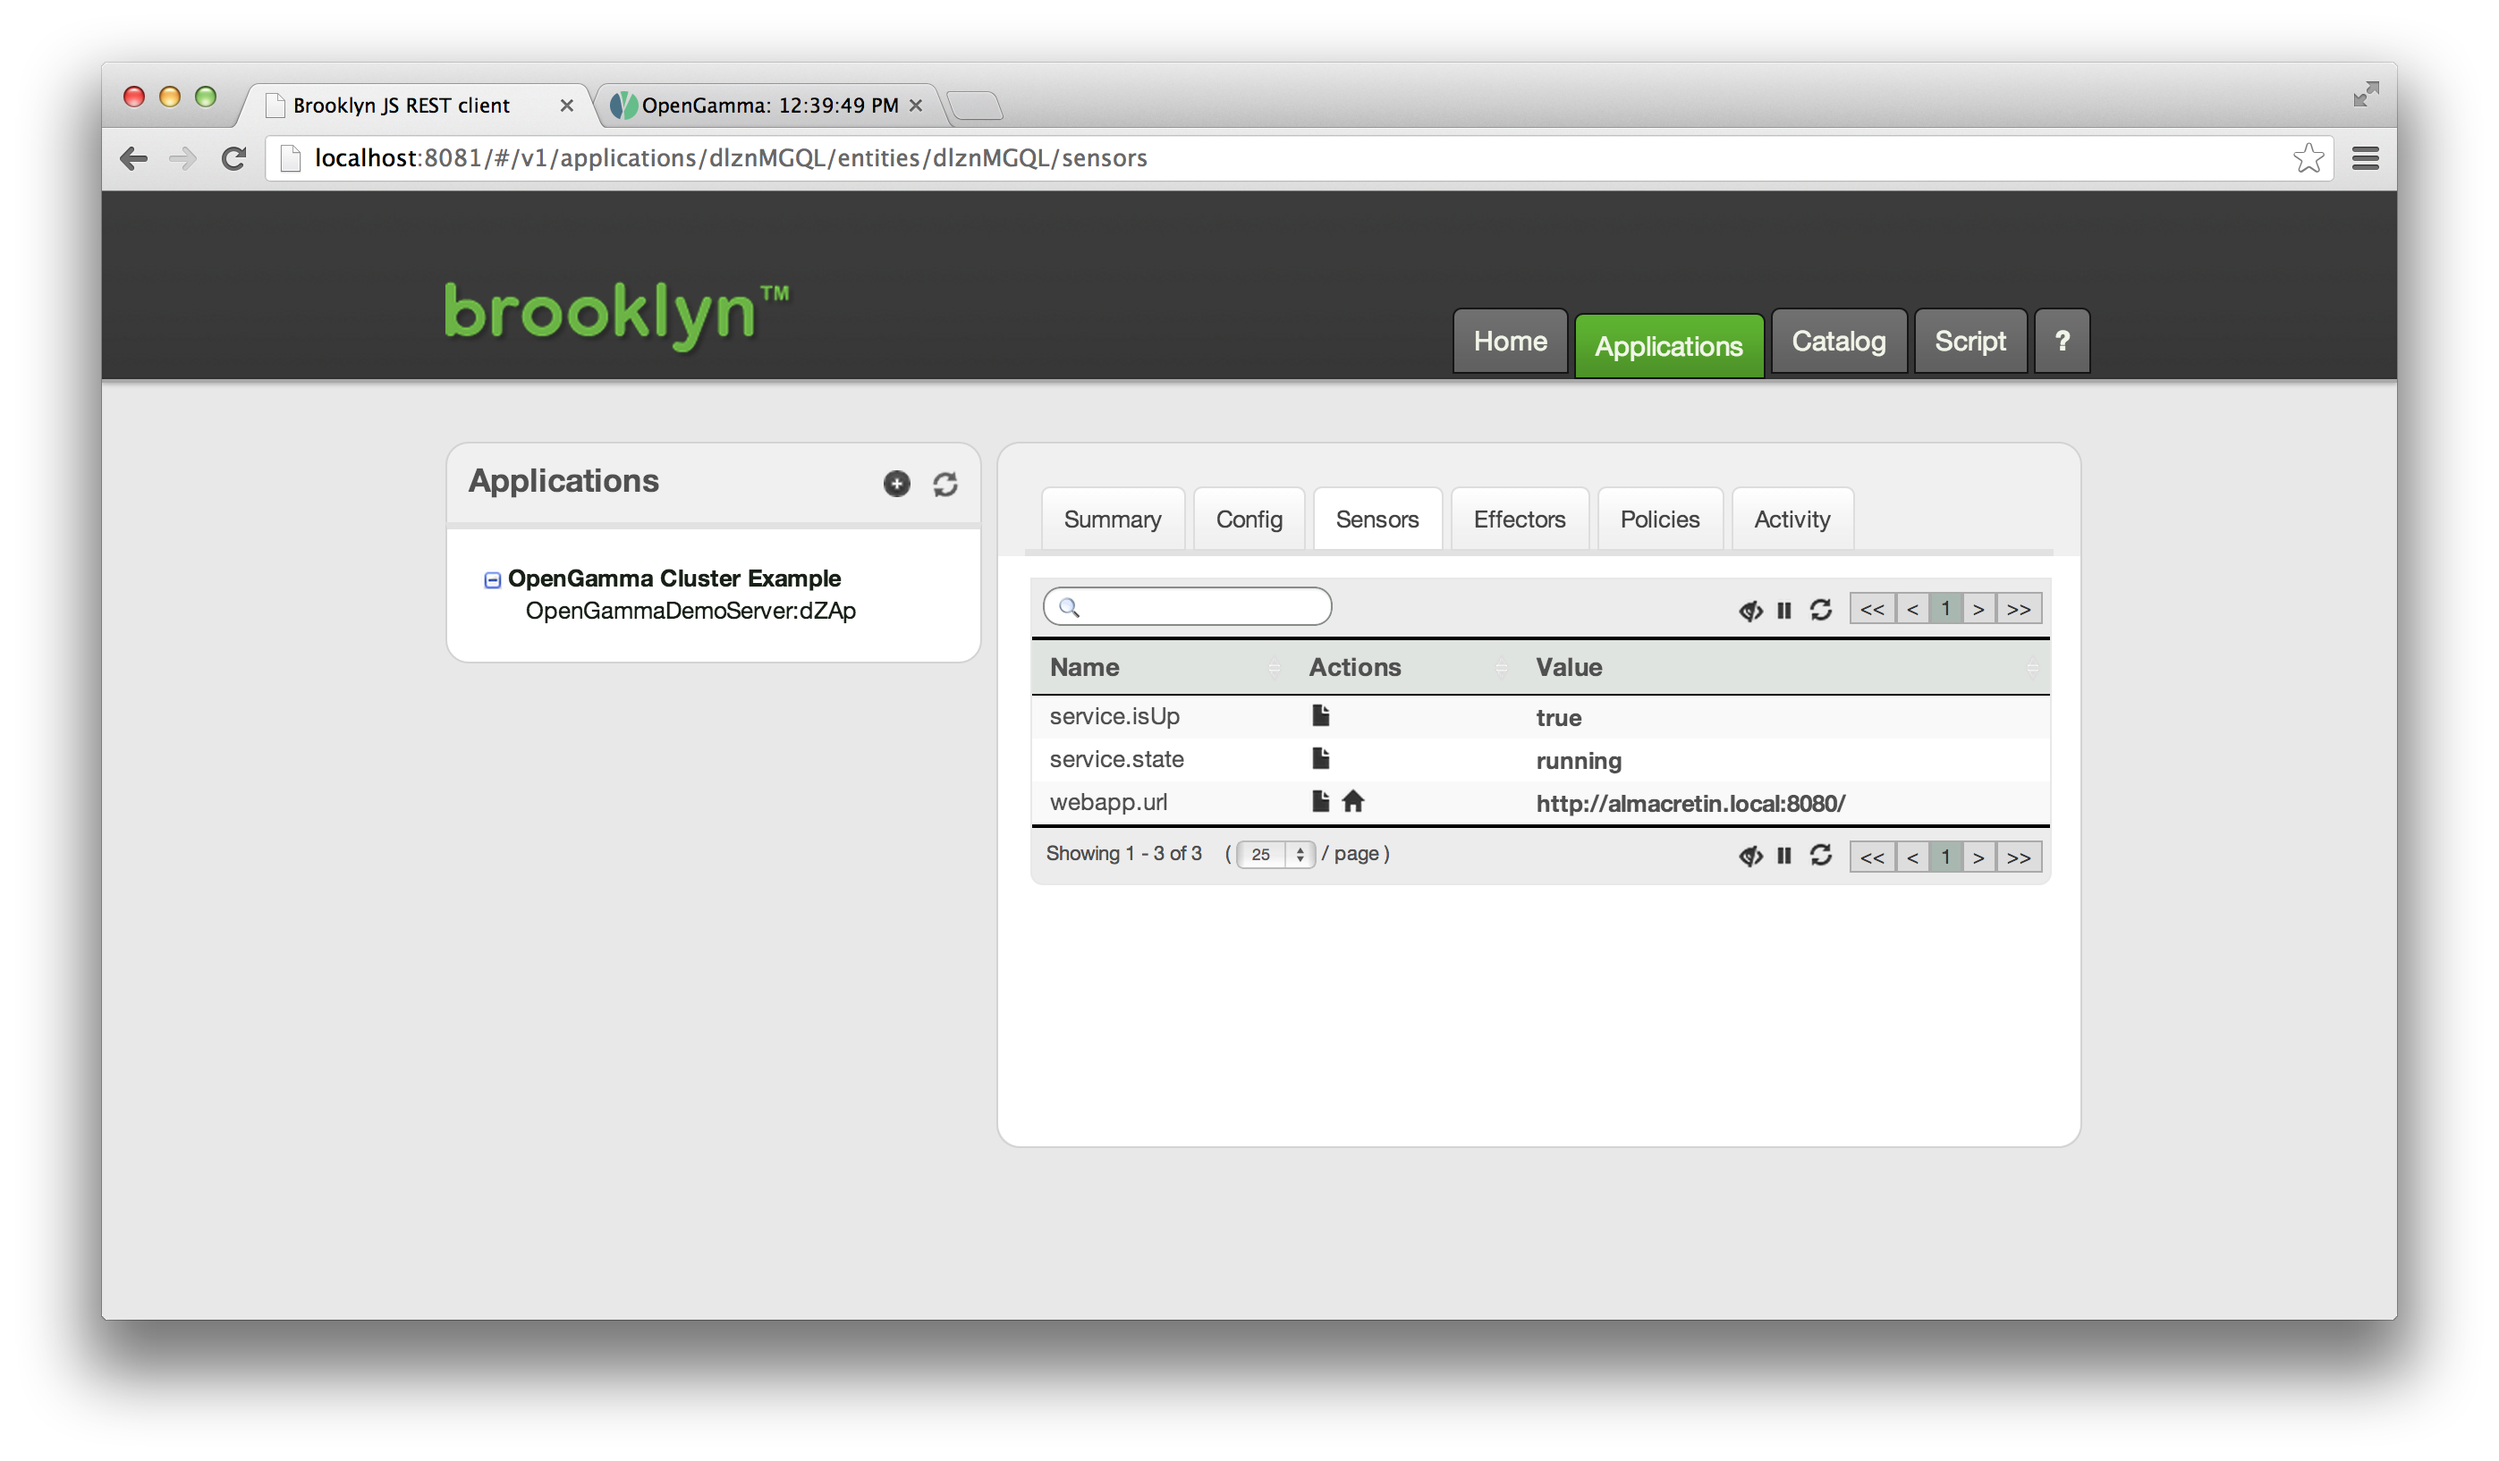
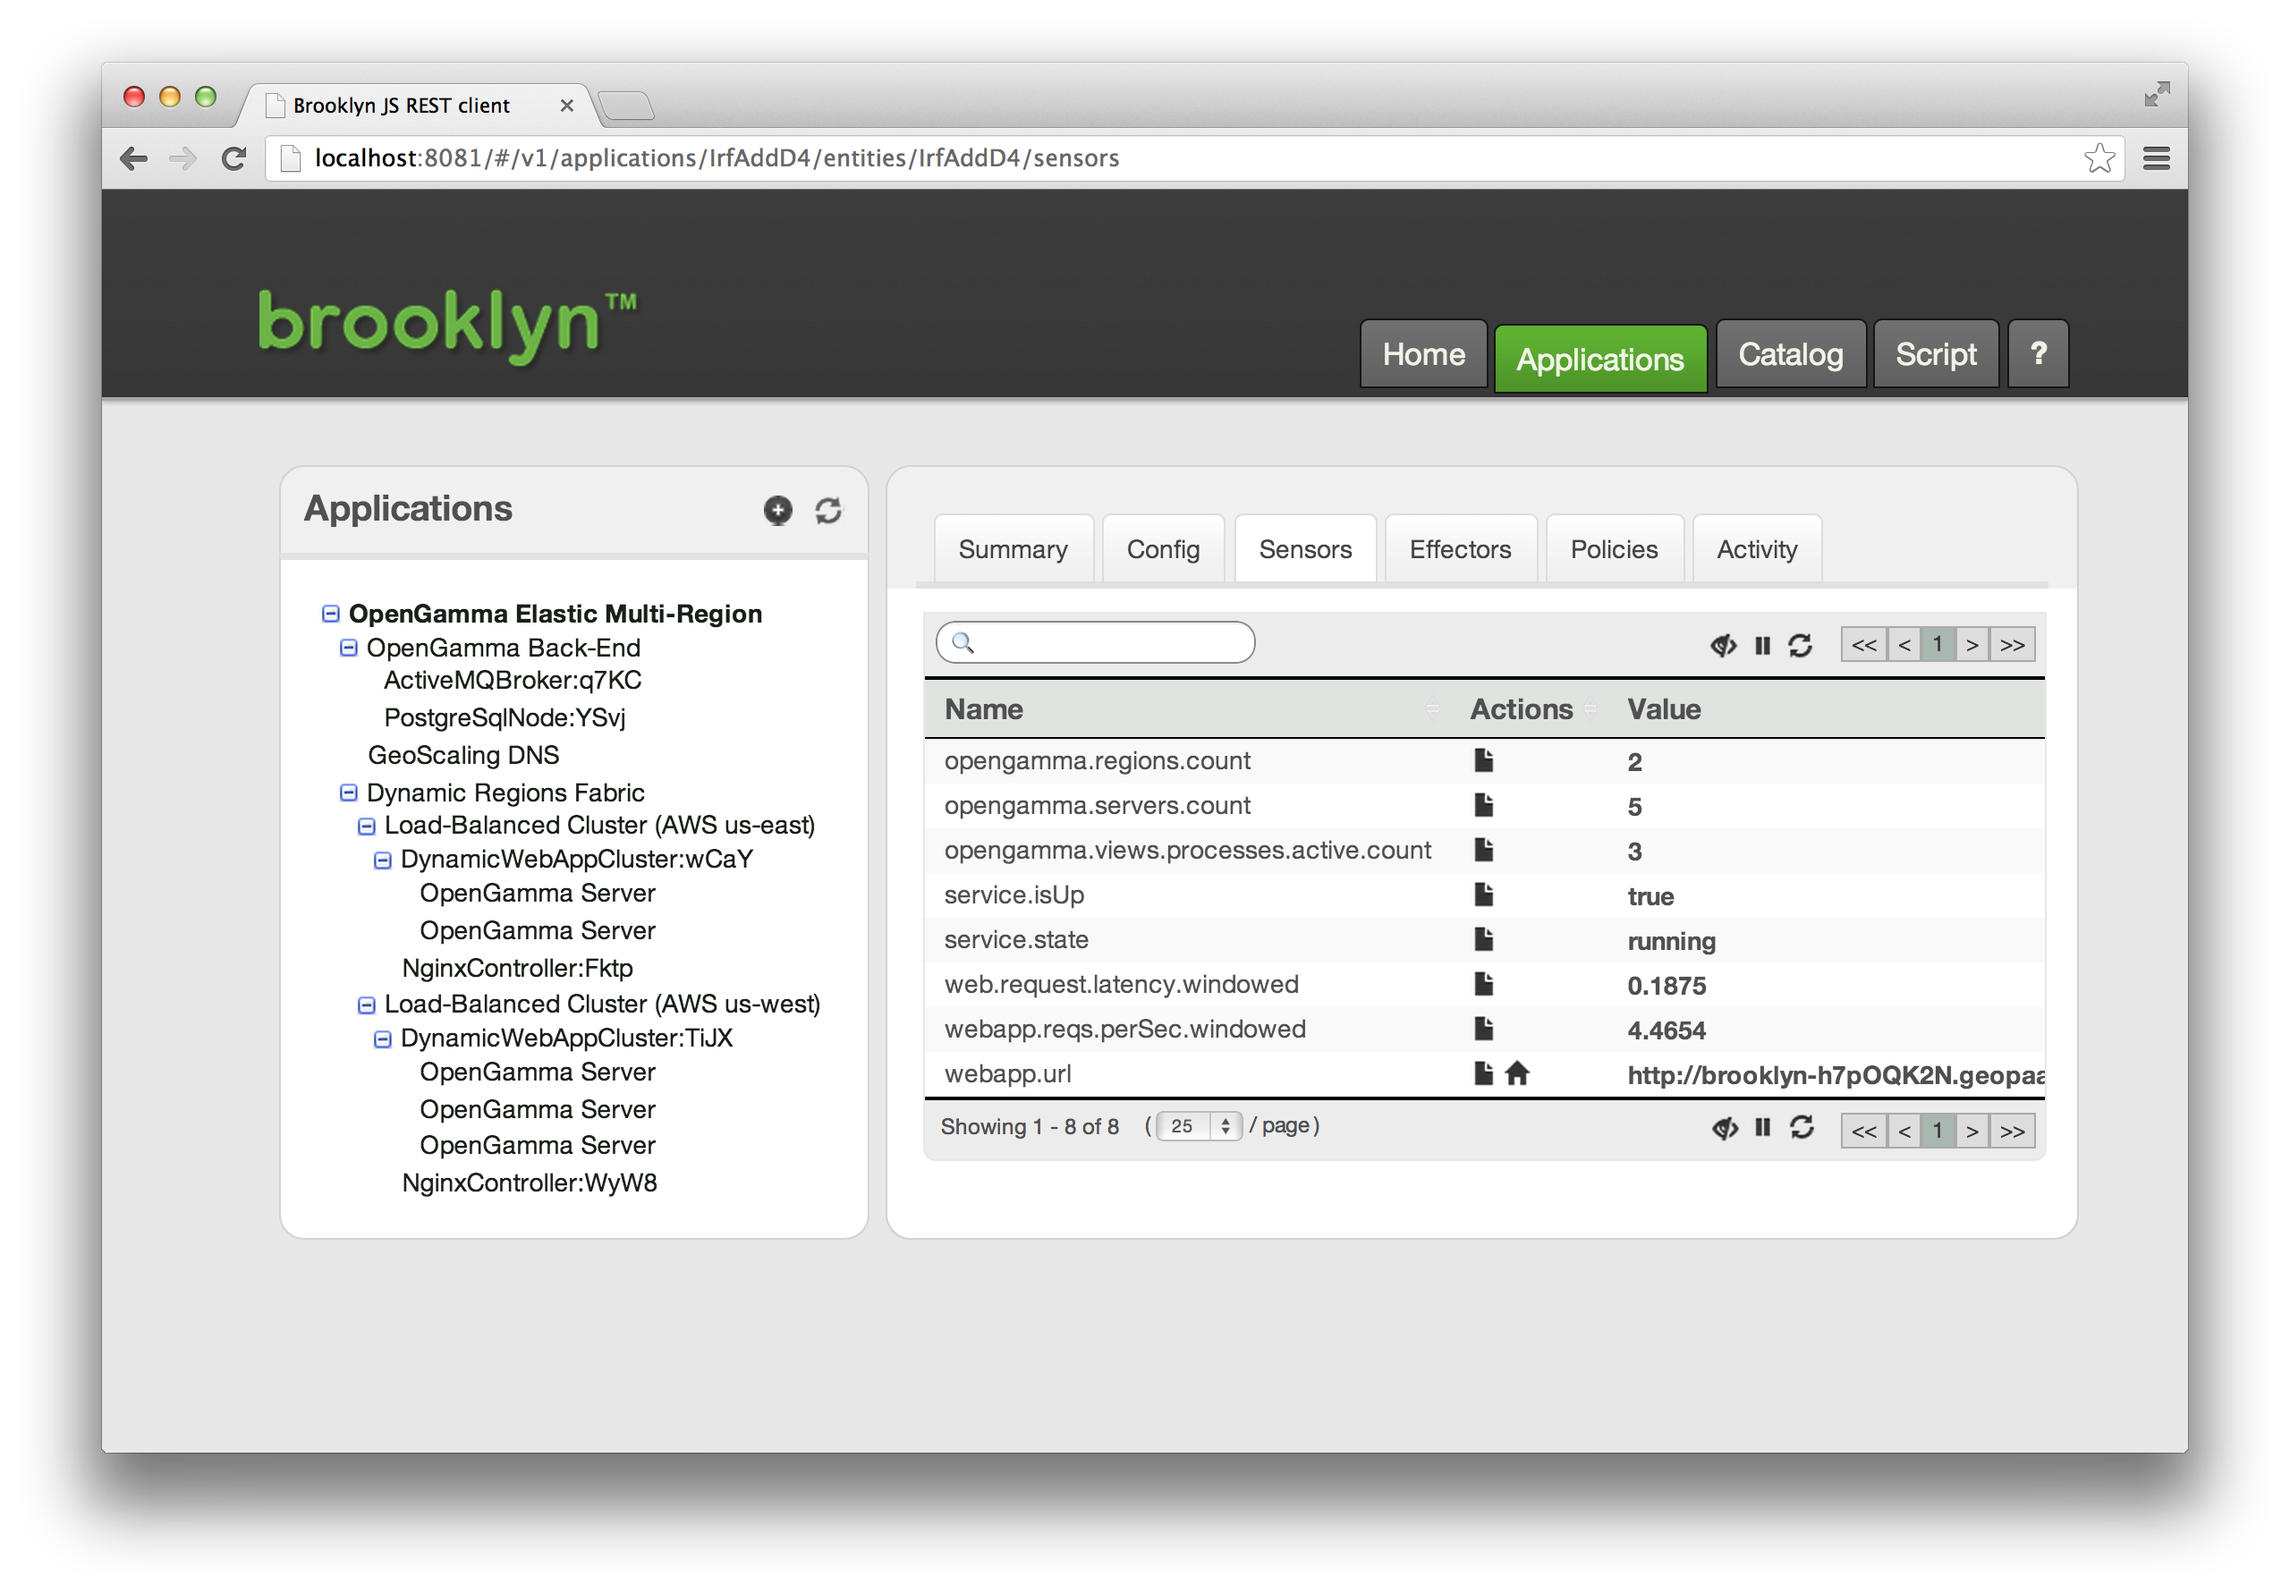
tidy class names and use more recent screenshot image

Changed region(s): [[0.0312, 0.0312, 0.9688, 0.9364], [0.375, 0.3433, 0.9062, 0.7491], [0.125, 0.3121, 0.4062, 0.7491]]

diff --git a/src/main/java/io/cloudsoft/opengamma/OpenGammaCluster.java b/src/main/java/io/cloudsoft/opengamma/OpenGammaCluster.java
@@ -1,78 +1,152 @@
 package io.cloudsoft.opengamma;
 
+import static com.google.common.base.Preconditions.checkNotNull;
 import io.cloudsoft.amp.entities.BasicStartable;
+import io.cloudsoft.amp.entities.BasicStartable.LocationsFilter;
+import io.cloudsoft.amp.entities.DynamicRegionsFabric;
 import io.cloudsoft.amp.policies.ServiceFailureDetector;
 import io.cloudsoft.amp.policies.ServiceReplacer;
 import io.cloudsoft.amp.policies.ServiceRestarter;
-import io.cloudsoft.opengamma.server.OpenGammaServer;
 import io.cloudsoft.opengamma.server.OpenGammaMonitoringAggregation;
+import io.cloudsoft.opengamma.server.OpenGammaServer;
 
+import java.util.ArrayList;
 import java.util.List;
+import java.util.Map;
 import java.util.concurrent.TimeUnit;
 
 import org.slf4j.Logger;
 import org.slf4j.LoggerFactory;
 
-import brooklyn.catalog.Catalog;
 import brooklyn.catalog.CatalogConfig;
 import brooklyn.config.ConfigKey;
+import brooklyn.config.StringConfigMap;
 import brooklyn.enricher.HttpLatencyDetector;
 import brooklyn.enricher.basic.SensorPropagatingEnricher;
+import brooklyn.enricher.basic.SensorTransformingEnricher;
 import brooklyn.entity.Entity;
 import brooklyn.entity.basic.AbstractApplication;
+import brooklyn.entity.basic.Attributes;
 import brooklyn.entity.basic.Entities;
+import brooklyn.entity.basic.EntityFactory;
+import brooklyn.entity.basic.EntityLocal;
 import brooklyn.entity.basic.SoftwareProcess;
 import brooklyn.entity.basic.StartableApplication;
 import brooklyn.entity.database.postgresql.PostgreSqlNode;
+import brooklyn.entity.dns.geoscaling.GeoscalingDnsService;
 import brooklyn.entity.group.DynamicCluster;
+import brooklyn.entity.group.DynamicFabric;
 import brooklyn.entity.messaging.activemq.ActiveMQBroker;
+import brooklyn.entity.proxy.AbstractController;
 import brooklyn.entity.proxying.EntitySpecs;
+import brooklyn.entity.trait.Changeable;
 import brooklyn.entity.webapp.ControlledDynamicWebAppCluster;
-import brooklyn.entity.webapp.DynamicWebAppCluster;
 import brooklyn.entity.webapp.WebAppService;
 import brooklyn.entity.webapp.WebAppServiceConstants;
 import brooklyn.event.SensorEvent;
 import brooklyn.event.SensorEventListener;
+import brooklyn.event.basic.BasicConfigKey;
 import brooklyn.launcher.BrooklynLauncher;
+import brooklyn.location.basic.PortRanges;
 import brooklyn.policy.autoscaling.AutoScalerPolicy;
 import brooklyn.util.CommandLineUtil;
+import brooklyn.util.MutableMap;
 
+import com.google.common.base.Functions;
+import com.google.common.collect.ImmutableList;
 import com.google.common.collect.Lists;
 
-@Catalog(name="OpenGamma Cluster", description="Open source risk management platform for capital markets - real-time market risk analytics and stress testing", iconUrl="classpath://opengamma-logo.png")
 public class OpenGammaCluster extends AbstractApplication implements StartableApplication {
-
+    
+    private static final long serialVersionUID = 997984655016594134L;
     public static final Logger LOG = LoggerFactory.getLogger(OpenGammaCluster.class);
-
+    
     public static final String DEFAULT_LOCATION = "localhost";
 
     @CatalogConfig(label="Debug Mode", priority=2)
     public static final ConfigKey<Boolean> DEBUG_MODE = OpenGammaServer.DEBUG_MODE;
 
+    @CatalogConfig(label="Multi-Region", priority=1)
+    public static final ConfigKey<Boolean> SUPPORT_MULTIREGION = new BasicConfigKey<Boolean>(Boolean.class,
+            "opengamma.multiregion", "Whether to run multi-region", true);
+
     /** build the application */
     @Override
     public void init() {
-        // Add external services (message bus broker and database server) for OG
-        BasicStartable backend = addChild(EntitySpecs.spec(BasicStartable.class).displayName("OpenGamma Back-End"));
-        ActiveMQBroker broker = backend.addChild(EntitySpecs.spec(ActiveMQBroker.class));
-        PostgreSqlNode database = backend.addChild(EntitySpecs.spec(PostgreSqlNode.class)
+        StringConfigMap config = getManagementContext().getConfig();
+        
+        // First define the stock service entities (message bus broker and database server) for OG
+        
+        BasicStartable backend = addChild(EntitySpecs.spec(BasicStartable.class)
+                .displayName("OpenGamma Back-End")
+                .configure(BasicStartable.LOCATIONS_FILTER, LocationsFilter.USE_FIRST_LOCATION));
+        final ActiveMQBroker broker = backend.addChild(EntitySpecs.spec(ActiveMQBroker.class));
+        final PostgreSqlNode database = backend.addChild(EntitySpecs.spec(PostgreSqlNode.class)
                 .configure(PostgreSqlNode.CREATION_SCRIPT_URL, "classpath:/io/cloudsoft/opengamma/config/create-brooklyn-db.sql"));
 
-        // Add the server tier
-        ControlledDynamicWebAppCluster web = addChild(
-                EntitySpecs.spec(ControlledDynamicWebAppCluster.class)
-                    .configure(ControlledDynamicWebAppCluster.INITIAL_SIZE, 2)
-                    .configure(ControlledDynamicWebAppCluster.MEMBER_SPEC, 
-                            EntitySpecs.spec(OpenGammaServer.class)
-                                    .displayName("OpenGamma Server")
-                                    .configure(OpenGammaServer.BROKER, broker)
-                                    .configure(OpenGammaServer.DATABASE, database))
-                    .displayName("OpenGamma Server Cluster (Web/View/Calc)")
-                );
+        // Now add the server tier, either multi-region (fabric) or fixed single-region (cluster)
 
-        initAggregatingMetrics(web);
-        initResilience(web);
-        initElasticity(web);
+        // factory for creating the OG server cluster, passed to fabric, or used directly here to make a cluster   
+        EntityFactory<Entity> ogWebClusterFactory = new EntityFactory<Entity>() {
+            @Override
+            public Entity newEntity(@SuppressWarnings("rawtypes") Map flags, Entity parent) {
+                ControlledDynamicWebAppCluster ogWebCluster = parent.addChild(EntitySpecs.spec(ControlledDynamicWebAppCluster.class)
+                        .displayName("Load-Balanced Cluster") 
+                        .configure(ControlledDynamicWebAppCluster.INITIAL_SIZE, 2)
+                        .configure(ControlledDynamicWebAppCluster.MEMBER_SPEC, 
+                            EntitySpecs.spec(OpenGammaServer.class).displayName("OpenGamma Server")
+                            .configure(OpenGammaServer.BROKER, broker)
+                            .configure(OpenGammaServer.DATABASE, database)) );
+                
+                initAggregatingMetrics(ogWebCluster);
+                initResilience(ogWebCluster);
+                initElasticity(ogWebCluster);
+                return ogWebCluster;
+            }
+        };
+
+        // use fabric by default, unless no password for geoscaling is set
+        String geoscalingPassword = config.getFirst("brooklyn.geoscaling.password");
+        
+        if (getConfig(SUPPORT_MULTIREGION) && geoscalingPassword!=null) {
+            log.info("GeoScaling support detected. Running in multi-cloud mode.");
+            
+            GeoscalingDnsService geoDns = addChild(EntitySpecs.spec(GeoscalingDnsService.class)
+                    .displayName("GeoScaling DNS")
+                    .configure("username", checkNotNull(config.getFirst("brooklyn.geoscaling.username"), "username"))
+                    .configure("password", geoscalingPassword)
+                    .configure("primaryDomainName", checkNotNull(config.getFirst("brooklyn.geoscaling.primaryDomain"), "primaryDomain")) 
+                    .configure("smartSubdomainName", "brooklyn"));
+
+            DynamicRegionsFabric webFabric = addChild(EntitySpecs.spec(DynamicRegionsFabric.class)
+                    .displayName("Dynamic Regions Fabric")
+                    .configure(DynamicFabric.FACTORY, ogWebClusterFactory)
+                    .configure(AbstractController.PROXY_HTTP_PORT, PortRanges.fromCollection(ImmutableList.of(80,"8000+"))) );
+
+            // tell GeoDNS what to monitor
+            geoDns.setTargetEntityProvider(webFabric);
+
+            // bubble up sensors (kpi's and access info), from WebFabric and GeoDNS
+            OpenGammaMonitoringAggregation.aggregateOpenGammaClusterSensors(webFabric);
+            OpenGammaMonitoringAggregation.promoteKpis(this, webFabric);
+            addEnricher(new SensorTransformingEnricher<Integer,Integer>(webFabric, Changeable.GROUP_SIZE, 
+                    OpenGammaMonitoringAggregation.REGIONS_COUNT, Functions.<Integer>identity()));
+            addEnricher(new SensorTransformingEnricher<String,String>(geoDns, Attributes.HOSTNAME, WebAppServiceConstants.ROOT_URL, 
+                    OpenGammaMonitoringAggregation.surround("http://","/")));
+        } else {
+            if (!getConfig(SUPPORT_MULTIREGION))
+                log.warn("No password set for GeoScaling. Creating "+this+" in single-cluster mode.");
+            else
+                log.info("Configured not to have multi-region support. Creating "+this+" in single-cluster mode.");
+            
+            Entity ogWebCluster = ogWebClusterFactory.newEntity(MutableMap.of(), this);
+            
+            // bubble up sensors (kpi's and access info) - in single-cluster mode it all comes from cluster (or is hard-coded)
+            OpenGammaMonitoringAggregation.promoteKpis(this, ogWebCluster);
+            setAttribute(OpenGammaMonitoringAggregation.REGIONS_COUNT, 1);
+            addEnricher(SensorPropagatingEnricher.newInstanceListeningTo(ogWebCluster,  
+                    WebAppServiceConstants.ROOT_URL));
+        }
     }
 
     /** aggregate metrics and selected KPI's */
@@ -82,19 +156,15 @@ public class OpenGammaCluster extends AbstractApplication implements StartableAp
                 rollup(10, TimeUnit.SECONDS).
                 build());
         OpenGammaMonitoringAggregation.aggregateOpenGammaServerSensors(web.getCluster());
-        addEnricher(SensorPropagatingEnricher.newInstanceListeningTo(web,  
-                WebAppServiceConstants.ROOT_URL,
-                DynamicWebAppCluster.REQUESTS_PER_SECOND_IN_WINDOW,
-                HttpLatencyDetector.REQUEST_LATENCY_IN_SECONDS_IN_WINDOW,
-                OpenGammaMonitoringAggregation.VIEW_PROCESSES_COUNT_PER_NODE));
     }
+
 
     /** this attaches a policy at each OG Server listening for ENTITY_FAILED,
      * attempting to _restart_ the process, and 
      * failing that attempting to _replace_ the entity (e.g. a new VM), and 
      * failing that setting the cluster "on-fire" */
     protected void initResilience(ControlledDynamicWebAppCluster web) {
-        subscribe(web.getCluster(), DynamicCluster.MEMBER_ADDED, new SensorEventListener<Entity>() {
+        ((EntityLocal)web).subscribe(web.getCluster(), DynamicCluster.MEMBER_ADDED, new SensorEventListener<Entity>() {
             @Override
             public void onEvent(SensorEvent<Entity> addition) {
                 initSoftwareProcess((SoftwareProcess)addition.getValue());
@@ -123,15 +193,22 @@ public class OpenGammaCluster extends AbstractApplication implements StartableAp
     public static void main(String[] argv) {
         List<String> args = Lists.newArrayList(argv);
         String port =  CommandLineUtil.getCommandLineOption(args, "--port", "8081+");
-        String location = CommandLineUtil.getCommandLineOption(args, "--location", DEFAULT_LOCATION);
+        
+        List<String> locations = new ArrayList<String>();
+        while (true) {
+            String l = CommandLineUtil.getCommandLineOption(args, "--location", null);
+            if (l!=null) locations.add(l);
+            else break;
+        }
+        if (locations.isEmpty()) locations.add(DEFAULT_LOCATION);
 
         BrooklynLauncher launcher = BrooklynLauncher.newInstance()
                  .application(EntitySpecs.appSpec(OpenGammaCluster.class)
-                         .displayName("OpenGamma Cluster Application"))
+                         .displayName("OpenGamma Elastic Multi-Region"))
                  .webconsolePort(port)
-                 .location(location)
+                 .locations(locations)
                  .start();
-
+             
         Entities.dumpInfo(launcher.getApplications());
     }
 }
